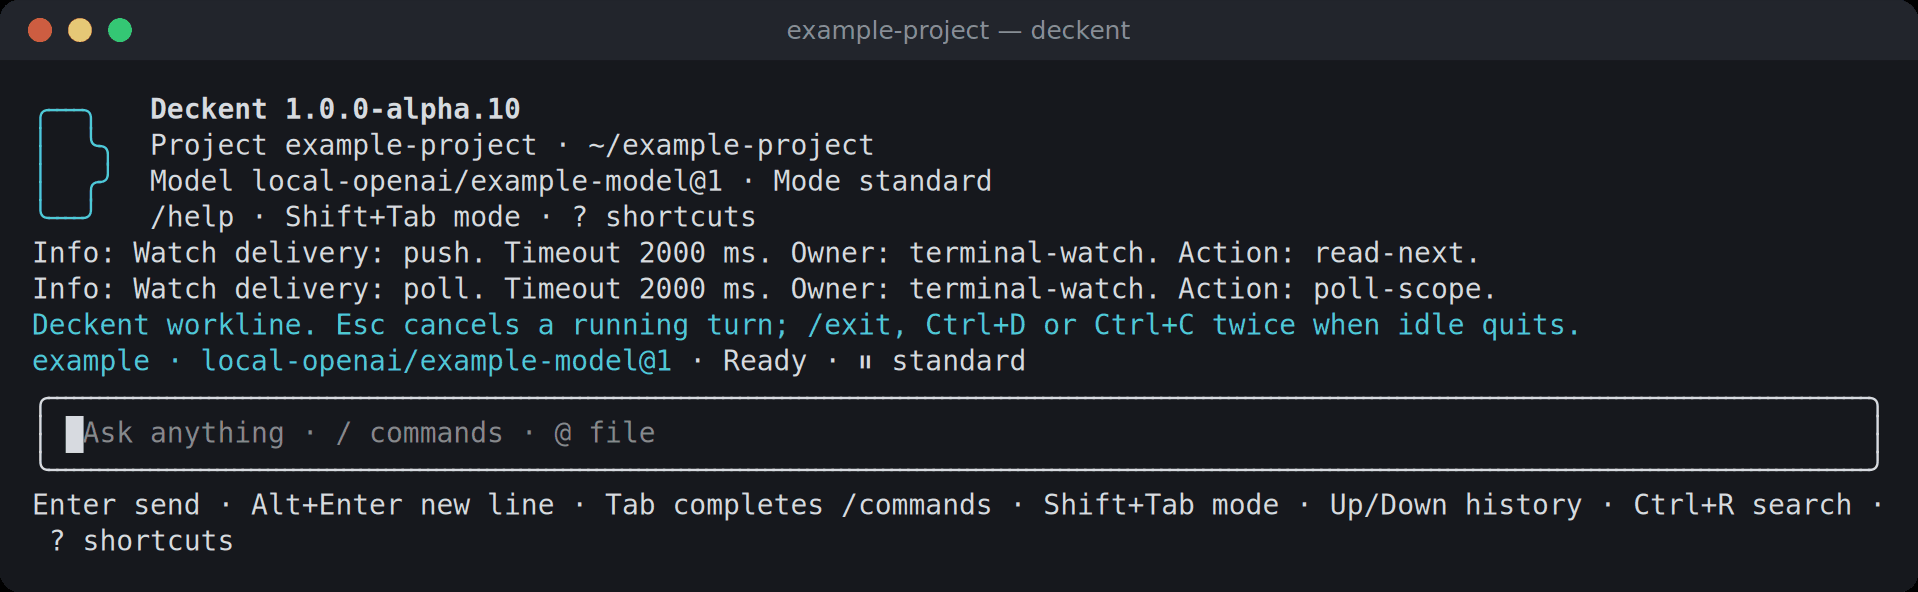
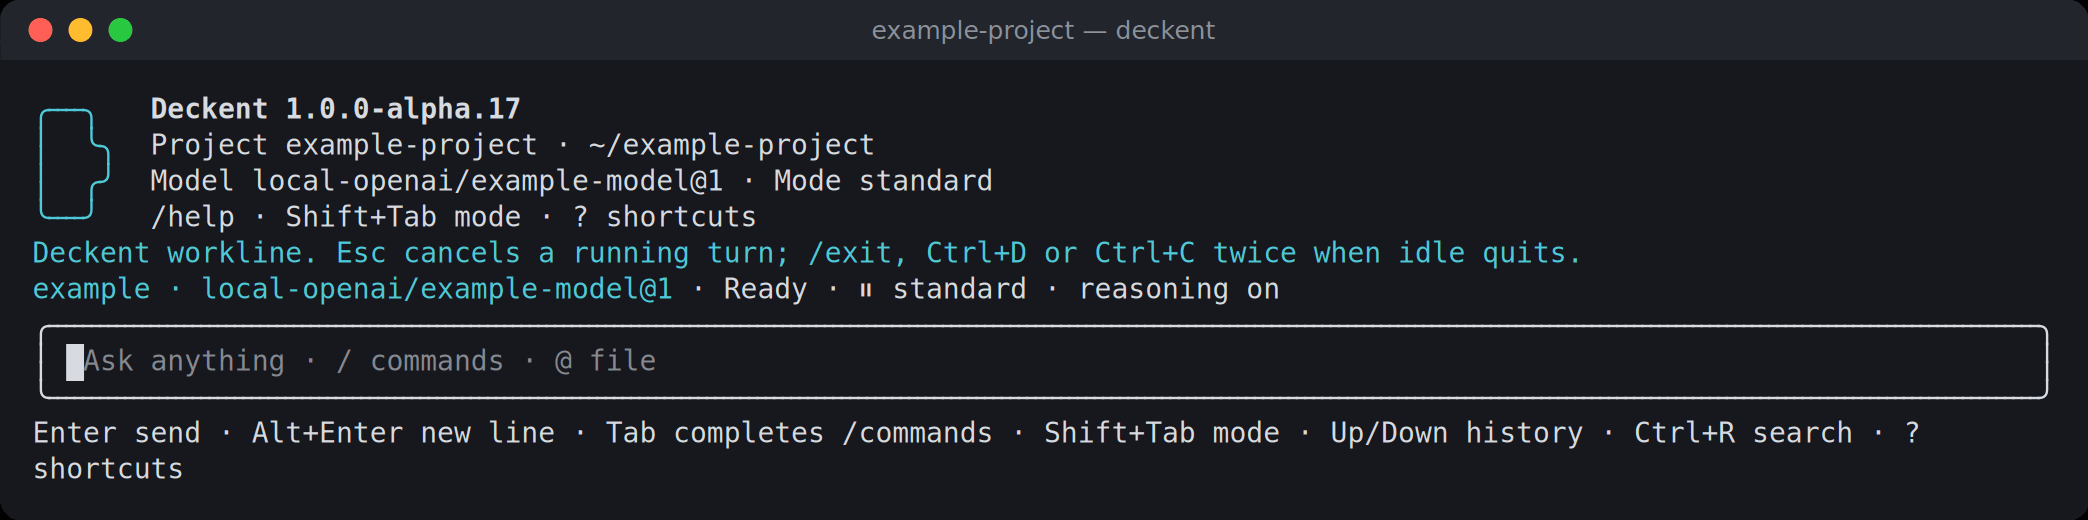
docs(readme): alpha.17 terminal screenshots (EN/TR, 120x36) and a first-session workflow
Re-captured 01-07 and added 08-16 from the real alpha.17 terminal in a throwaway installation
(compiled CLI in a PTY, own runtime service, loopback test model; no provider call, no real key):
/provider, the budget window (presets and arrow stepper), /model before and after a budget,
/usage, /config value selection, framed system lines and /tasks. README and README.tr.md gain
"Your first session" (init policy -> /provider -> budget -> /model -> approvals -> /usage) with a
Mermaid flow, slash-window and settings-by-selection notes, a Spending section, and the key store
table now says fresh installs start on the encrypted store. Operator reference: the budget window
opens from the first row of /provider.

Changed region(s): [[0.0, 0.1538, 0.9844, 0.9538], [0.3999, 0.0308, 0.5845, 0.0923], [0.0, 0.0308, 0.0923, 0.0923]]

diff --git a/README.tr.md b/README.tr.md
@@ -13,7 +13,7 @@
 [![Node engines](https://img.shields.io/badge/dynamic/json?url=https%3A%2F%2Fraw.githubusercontent.com%2FVerhex%2Fdeckent-next%2Fmain%2Fpackage.json&query=%24.engines.node&label=Node&color=43853d)](package.json)
 [![Pre-release](https://img.shields.io/badge/dynamic/json?url=https%3A%2F%2Fraw.githubusercontent.com%2FVerhex%2Fdeckent-next%2Fmain%2Fpackage.json&query=%24.version&label=pre-release&color=orange)](CHANGELOG.md)
 
-[English](README.md) · [Deckent nedir](#deckent-nedir) · [Bir istek nasıl akar](#bir-istek-nasıl-akar) · [Terminalde](#terminalde) · [Güvenlik](#güvenlik-modeli) · [Başlarken](#başlarken)
+[English](README.md) · [Deckent nedir](#deckent-nedir) · [Bir istek nasıl akar](#bir-istek-nasıl-akar) · [İlk oturum](#adım-adım-ilk-oturum) · [Terminalde](#terminalde) · [Güvenlik](#güvenlik-modeli) · [Başlarken](#başlarken)
 
 <img src=".github/assets/screenshots/tr/01-acilis.png" alt="Açılıştaki Deckent terminali: logo, sürüm, proje, model ve mod" width="880">
 
@@ -81,23 +81,94 @@ sequenceDiagram
   T-->>Siz: sonuç, her adım görünür
 ```
 
-## Terminalde
+## Adım adım ilk oturum
 
-Bu ekranlar gerçek Deckent terminalinden (alpha.10, 110×32; sonradan eklenen `/provider`, `/model` ve slash komut pencereleri henüz görselde yok), yerel bir deneme modeliyle geçici bir örnek projede
-çekildi.
+Boş bir projeden yönetilen bir ajan turuna ve onun maliyetine kadar, Deckent'ten çıkmadan:
+
+```mermaid
+flowchart LR
+  I["1 · Kurulum<br/><sub>deckent init policy</sub>"] --> O["2 · Açın<br/><sub>deckent</sub>"]
+  O --> P["3 · Sağlayıcı bağlayın<br/><sub>/provider · anahtar · ücretsiz deneme</sub>"]
+  P --> B["4 · Bütçe belirleyin<br/><sub>Bütçe oluştur · USD</sub>"]
+  B --> M["5 · Model seçin<br/><sub>/model · oturum ya da varsayılan</sub>"]
+  M --> W["6 · Çalışın<br/><sub>onaylar · modlar</sub>"]
+  W --> U["7 · Kullanıma bakın<br/><sub>/usage · harcama hesabı</sub>"]
+```
+
+1. **Kurulum**, proje başına bir kez: `deckent init policy --scope <id> --preview` ilk kurulum policy'sini gösterir,
+   `deckent init policy --scope <id> --apply` onu kurar. Bu policy o kapsamda model bağlamanıza ve çağırmanıza,
+   anahtar saklamanıza ve bütçe belirlemenize izin verir; bu eylemlerin her biri yine kontrol edilir ve kaydedilir.
+   Linux, WSL ve macOS'ta yeni bir kurulum şifreli anahtar deposuyla başlar.
+2. **Terminali açın**: `deckent`.
+3. **Sağlayıcı bağlayın**: `/provider` ile Anthropic API, OpenAI API, DeepSeek API, Z.ai GLM, herhangi bir OpenAI uyumlu
+   adres ya da vLLM gibi yerel bir sunucu. Anahtarı gizlenen bir alana yazarsınız; Deckent onu ücretsiz bir istekle
+   dener ve gizli depoya adıyla saklar; denemenin reddettiği anahtar asla saklanmaz. Ücretsiz denemesi olmayan bir
+   sağlayıcıda anahtar doğrulanmadan saklanır ve olası reddi ilk tur gösterir. Değer bir daha gösterilmez ve hiçbir
+   ajan ya da işçi onu almaz. Ardından o sağlayıcının kataloğundan **Model bağla**'yı seçin. Yayımlanmış fiyatı
+   doğrulanmamış bir model listede görünür ama nedeniyle kilitlidir (Zhipu GLM Çin, fiyatları CNY olduğu için kilitli
+   kalır). OpenRouter şimdilik yalnız anahtar saklar. Aynısı komut satırından: `deckent secret set <AD>` ve
+   `deckent models connect --scope <id> --connection <tür> --command-id <id> --model <birebir kimlik>`.
+4. **Bütçe belirleyin.** Her model turu, kapsamın tek ve ortak USD bütçesinden pay ayırır; bütçe yoksa her tur
+   reddedilir ve pencereler bunu söyler. `/provider`'ın ilk satırı **Bütçe oluştur** bütçe penceresini açar: 5, 10, 25,
+   50 ya da 100 USD veya ok tuşlarıyla 1 ile 1000 arasında başka bir tam dolar tutarı, ardından bir onay adımı. Sonra
+   aynı satır **Bütçeyi değiştir** olur. Komut satırından: `deckent models create-budget --scope <id> --usd <n>` ve
+   `deckent models revise-budget --scope <id> --usd <n>`.
+5. **Model seçin**: `/model` katalogdaki modelleri listeler; henüz kullanamayacağınız bir model nedeniyle (bütçe yok,
+   bağlı değil, anahtar eksik, etkin değil) ve onu neyin düzelteceğiyle kilitlidir. **Yalnız bu oturum** ya da **Bu
+   oturum ve varsayılanım olsun** (sizin `terminal.defaultModel` ayarınız) seçin. Proje kendi modelini belirtiyorsa
+   pencere kullanılan modeli hangi ayarın seçtiğini söyler.
+6. **Çalışın.** İsteğinizi düz cümleyle söyleyin. Araç çağrıları şirket policy'nize ve izin modunuza uyar; size
+   danışılması gereken her şey onay penceresini açar (bkz. [Güvenlik modeli](#güvenlik-modeli)).
+7. **Kullanıma bakın**: `/usage` bu konuşmanın ölçtüğü token'ları (sağlayıcı bildirmediyse akıl yürütme *ölçülmedi*
+   görünür) ve kapsamın bütçelerini gösterir; harcama hesabını okumak için bir bütçe açın: üst sınır, ayrılan ve
+   kesinleşen.
 
 <table>
   <tr>
-    <td width="50%"><img src=".github/assets/screenshots/tr/02-sohbet.png" alt="Sohbet turu: sizin satırınız Sen, yanıt Deckent başlığı altında"><br><sub><b>Sohbet.</b> Sizin satırlarınız ve Deckent'in yanıtları belirgin biçimde ayrışır.</sub></td>
+    <td width="50%"><img src=".github/assets/screenshots/tr/09-model.png" alt="Bütçe yokken /model: iki model de nedeniyle kilitli"><br><sub><b>Bütçeden önce.</b> <code>/model</code> her modeli kilitler; nedeni ve sonraki adımı söyler.</sub></td>
+    <td width="50%"><img src=".github/assets/screenshots/tr/08b-saglayici-butce-satiri.png" alt="İlk satırı Bütçe oluştur olan /provider ve sağlayıcı listesi"><br><sub><b>/provider.</b> Önce <b>Bütçe oluştur</b>, sonra her sağlayıcı bağlantı durumuyla.</sub></td>
+  </tr>
+  <tr>
+    <td width="50%"><img src=".github/assets/screenshots/tr/10-butce.png" alt="Hazır tutarlarla bütçe penceresi"><br><sub><b>Bütçe penceresi.</b> Hazır tutarlar ya da ok tuşlarıyla başka bir tutar.</sub></td>
+    <td width="50%"><img src=".github/assets/screenshots/tr/11-butce-adim.png" alt="20 USD'ye ayarlanmış bütçe adımlayıcısı"><br><sub><b>Başka tutar.</b> Tam dolar, 1 ile 1000 arası; hiçbir şey yazılmaz, onaylamadan hiçbir şey gönderilmez.</sub></td>
+  </tr>
+  <tr>
+    <td width="50%"><img src=".github/assets/screenshots/tr/12-model-hazir.png" alt="Bütçeden sonra /model: bir model hazır, diğeri bağlı değil diye kilitli"><br><sub><b>Bütçeden sonra.</b> Bağlı model hazır; diğeri bağlanana kadar kilitli kalır. Üstteki çerçeveli satır bütçeyi kaydeder.</sub></td>
+    <td width="50%"><img src=".github/assets/screenshots/tr/13-kullanim.png" alt="Bir sohbet turundan sonra /usage penceresi"><br><sub><b>/usage.</b> Bu konuşmanın ölçtüğü token'lar ve kapsamın bütçeleri. Fatura değil, ölçümdür.</sub></td>
+  </tr>
+</table>
+
+## Terminalde
+
+Bu ekranlar gerçek Deckent terminalinden (alpha.17, 120×36), geçici bir örnek projede çekildi. Model, aynı makinedeki
+küçük bir deneme sunucusudur: hiçbir sağlayıcı çağrılmadı ve gerçek bir anahtar kullanılmadı.
+
+Her slash komutu kendi penceresinde yanıt verir. <kbd>Esc</kbd> pencereyi kapatır ve konuşmada metin yığını yerine
+tek bir çerçeveli `Deckent sistemi` satırı bırakır. Ayarlar yazarak değil seçerek değişir: `/config` bölümden anahtara,
+oradan izin verilen değerlere ilerler; sayılar sınırlı bir ok tuşu adımlayıcısıyla değişir ve yalnız birkaç alan
+(izinli bir fetch adresi ya da bir kayıt defteri adresi gibi) yazılan metin alır, o da önce kontrol edilir. Her
+değişiklik policy'den geçer ve bir onaya dönüşebilir.
+
+<table>
+  <tr>
+    <td width="50%"><img src=".github/assets/screenshots/tr/02-sohbet.png" alt="Sohbet turu: sizin satırınız Sen, yanıt Deckent başlığı altında"><br><sub><b>Sohbet.</b> Sizin satırlarınız ve Deckent'in yanıtları belirgin biçimde ayrışır; her turda süre ve token.</sub></td>
     <td width="50%"><img src=".github/assets/screenshots/tr/05-onay.png" alt="Kabuk komutu için onay penceresi"><br><sub><b>Onay penceresi.</b> Ne, nerede (sandbox), kimin adına, kapsam, neden, risk, geri alınabilirlik ve canlı süre. <code>y</code> bu sefer · <code>n</code> reddet · <kbd>Tab</kbd> not.</sub></td>
   </tr>
   <tr>
-    <td width="50%"><img src=".github/assets/screenshots/tr/04-durum.png" alt="/status çıktısı"><br><sub><b>/status.</b> Önce insan dilinde özet; kimlikler, süreç ve build ayrıntıda.</sub></td>
+    <td width="50%"><img src=".github/assets/screenshots/tr/04-durum.png" alt="/status penceresi"><br><sub><b>/status.</b> Önce insan dilinde özet; kimlikler, süreç ve build ayrıntıda.</sub></td>
     <td width="50%"><img src=".github/assets/screenshots/tr/06-tam-erisim.png" alt="Tam erişim modu göstergesi"><br><sub><b>Modlar.</b> <kbd>Shift</kbd>+<kbd>Tab</kbd> yetkili olduğunuz modlar arasında döner; tam erişim açıkça işaretlenir.</sub></td>
   </tr>
   <tr>
-    <td width="50%"><img src=".github/assets/screenshots/tr/03-yardim.png" alt="Amaca göre gruplu /help"><br><sub><b>/help.</b> Komutlar amaca göre gruplu, her biri tek satır.</sub></td>
-    <td width="50%"><img src=".github/assets/screenshots/tr/07-mcp.png" alt="/mcp sunucu listesi"><br><sub><b>/mcp.</b> Yapılandırılmış MCP sunucuları, güven ve sağlık durumları.</sub></td>
+    <td width="50%"><img src=".github/assets/screenshots/tr/03-yardim.png" alt="Amaca göre gruplu /help penceresi"><br><sub><b>/help.</b> Komutlar amaca göre gruplu, her biri tek satır.</sub></td>
+    <td width="50%"><img src=".github/assets/screenshots/tr/07-mcp.png" alt="/mcp penceresi"><br><sub><b>/mcp.</b> Adım adım sunucu ekleme; yapılandırılmış sunucular güven durumlarıyla.</sub></td>
+  </tr>
+  <tr>
+    <td width="50%"><img src=".github/assets/screenshots/tr/08-saglayici.png" alt="Sağlayıcı türlerini listeleyen /provider penceresi"><br><sub><b>/provider.</b> Her sağlayıcının durumu; OpenRouter satırı şimdilik yalnız anahtar tuttuğunu söyler.</sub></td>
+    <td width="50%"><img src=".github/assets/screenshots/tr/14-ayarlar.png" alt="Terminal temasını seçen /config penceresi"><br><sub><b>/config.</b> Bölüm, anahtar, sonra izin verilen değerlerden biri; geçerli olan işaretli.</sub></td>
+  </tr>
+  <tr>
+    <td width="50%"><img src=".github/assets/screenshots/tr/15-sistem-satiri.png" alt="Kapanan pencerelerin bıraktığı çerçeveli sistem satırları"><br><sub><b>Sistem satırları.</b> Kapanan her pencere tek bir çerçeveli özet satırı bırakır.</sub></td>
+    <td width="50%"><img src=".github/assets/screenshots/tr/16-gorevler.png" alt="Henüz iş olmayan canlı /tasks penceresi"><br><sub><b>/tasks.</b> İşçiler ve işler tek bir canlı, salt okunur pencerede (burada boş: henüz arka plan işi yok).</sub></td>
   </tr>
 </table>
 
@@ -130,15 +201,15 @@ makinede sandbox kullanılamıyorsa `prefer-sandbox` ortamı host'ta çalışır
 
 ### API anahtarları
 
-Sağlayıcı anahtarını bir kez `deckent secret set AD` ile kaydedersiniz (gizli istem ya da stdin; asla komut argümanı değil);
-model profili ona adıyla başvurur. Anahtarı `ANTHROPIC_API_KEY`, shell profili ya da `.env` dosyasına koymayın: başka araçlar
-oraları okur.
+Sağlayıcı anahtarını bir kez, `/provider`'ın gizlenen alanına ya da `deckent secret set AD` ile kaydedersiniz (gizli
+istem ya da stdin; asla komut argümanı değil); model profili ona adıyla başvurur. Anahtarı `ANTHROPIC_API_KEY`, shell
+profili ya da `.env` dosyasına koymayın: başka araçlar oraları okur.
 
 | Depo (`secrets.store`) | Diskte | Anahtarı kim okuyabilir |
 |---|---|---|
-| `core.secret-store.env@1` (varsayılan) | hiçbir şey; ortam değişkeninden okunur | o ortamı devralan her program |
+| `core.secret-store.env@1` (hiçbir depo seçilmemişse) | hiçbir şey; ortam değişkeninden okunur | o ortamı devralan her program |
 | `core.secret-store.file@1` | düz metin, 0600 dosya | Deckent ve sizin hesabınızla çalışan diğer programlar |
-| `core.secret-store.encrypted-file@1` (önerilen) | şifreli (AES-256-GCM); açma anahtarı aynı klasörde, parola yok | Deckent; sizin hesabınızla çalışan diğer programlar yine açabilir |
+| `core.secret-store.encrypted-file@1` (önerilen; yeni kurulumlar bununla başlar) | şifreli (AES-256-GCM); açma anahtarı aynı klasörde, parola yok | Deckent; sizin hesabınızla çalışan diğer programlar yine açabilir |
 
 Ajanlar ve worker'lar anahtarı hiç almaz: sandbox depoyu gizler, anahtarı geri yansıtan sağlayıcı yanıtı reddedilir.
 `deckent doctor` hangi deponun etkin olduğunu ve kimin okuyabileceğini gösterir. Sağlayıcı anahtarı reddederse (401/403) ya da
@@ -154,6 +225,17 @@ bir limit dolarsa terminal bunu açık sözlerle söyler; harcama limitleri sağ
 3. Planlanan: Deckent servisini ayrı bir işletim sistemi kullanıcısında (ya da macOS Keychain ile) çalıştırmak; böylece hesabınızdaki hiçbir program anahtarları okuyamaz.
 
 Dosya depoları native Windows'ta henüz yok.
+
+### Harcama
+
+Her kapsamın, tüm API sağlayıcıları için ortak tek bir USD bütçesi vardır. Ücretli bir çağrıdan önce Deckent, geçerli
+olabilecek en pahalı fiyat kademesinde çağrının tutabileceği en yüksek tutarı ayırır; sonra çağrıyı sağlayıcının kendi
+son yanıtında bildirdiği kullanım ile doğrulanmış yayımlanmış fiyatın çarpımından kesinleştirir. Kesinleşen tutar
+Deckent'in kendi hesabıdır, sağlayıcının faturası değildir. Fiyatı doğrulanmamış uzak bir model reddedilir ve nedeniyle
+kilitli görünür. Sağlayıcı hangi fiyat kademesini kullandığını söylemiyorsa (DeepSeek) çağrı yayımlanmış en yüksek
+fiyattan kesinleşir ve üst sınır olarak işaretlenir. Son kullanımını hiç almamış bir çağrı, `deckent models
+reconcile-spending` ile çözene kadar ayrılmış kalır. Kesinleşen bir tutar ayrılandan fazla çıkarsa kapsam yeni
+çağrıları kabul etmez; dondurmayı `deckent models revise-budget --scope <id> --usd <n> --unfreeze` ile kaldırırsınız.
 
 ## Mimari
 
@@ -190,9 +272,10 @@ flowchart LR
 - **Yönetişim**: yerel kimlik, şirket kapsamlı policy, denetim ve her yüzey için tek onay aracısı; doğrulanmamış
   kanıt için insan kabulü ya da reddi.
 - **Model seçin**: istemci ve faturalama kanalına göre model kataloğu, birebir etkinleştirme, yerel vLLM sohbeti;
-  `/provider` ve `/model` kendi anahtarınızla sağlayıcı bağlar ve oturum için modeli sabitler; ücretli çağrılar,
-  sağlayıcının kullanım verisi ile doğrulanmış yayımlanmış tarifenin çarpımından, belirlediğiniz bütçe altında
-  kesinleşir (fiyatı bilinmeyen uzak model reddedilir ve nedeniyle kilitlenir); harcama ve ayırma denetimi.
+  `/provider` ve `/model` kendi anahtarınızla sağlayıcı bağlar, modeli oturum için sabitler ya da varsayılanınız yapar;
+  ücretli çağrılar, sağlayıcının kullanım verisi ile doğrulanmış yayımlanmış tarifenin çarpımından, bütçe penceresinde
+  ya da `deckent models create-budget` ile belirlediğiniz bütçe altında kesinleşir (fiyatı bilinmeyen uzak model
+  reddedilir ve nedeniyle kilitlenir); harcama ve ayırma denetimi.
 - **İşletin**: tüm kurulumlar için salt okunur `deckent monitor`, sağlık için `deckent doctor`, ayarlar için
   `deckent config`, her yerde iki dilli yardım.
 
@@ -224,6 +307,7 @@ Bundan sonra her şey `deckent` ile yapılır:
 deckent --version
 deckent                                   # etkileşimli terminali aç
 deckent doctor                            # kurulum sağlığı
+deckent init policy --scope <id> --apply  # bir proje için ilk kurulum policy'si (bkz. Adım adım ilk oturum)
 deckent init preview --profile <dosya>    # bir proje için kurulumu önizle
 deckent mcp add context7 -- npx -y @upstash/context7-mcp   # MCP sunucusu ekle
 deckent monitor                           # kurulumları ve işleri izle

diff --git a/README.md b/README.md
@@ -13,7 +13,7 @@ Every action by people, AI agents and tools is authorized, isolated, executed an
 [![Node engines](https://img.shields.io/badge/dynamic/json?url=https%3A%2F%2Fraw.githubusercontent.com%2FVerhex%2Fdeckent-next%2Fmain%2Fpackage.json&query=%24.engines.node&label=Node&color=43853d)](package.json)
 [![Pre-release](https://img.shields.io/badge/dynamic/json?url=https%3A%2F%2Fraw.githubusercontent.com%2FVerhex%2Fdeckent-next%2Fmain%2Fpackage.json&query=%24.version&label=pre-release&color=orange)](CHANGELOG.md)
 
-[Türkçe](README.tr.md) · [What it is](#what-is-deckent) · [How a request flows](#how-a-request-flows) · [In the terminal](#in-the-terminal) · [Safety](#safety-model) · [Get started](#get-started)
+[Türkçe](README.tr.md) · [What it is](#what-is-deckent) · [How a request flows](#how-a-request-flows) · [First session](#your-first-session) · [In the terminal](#in-the-terminal) · [Safety](#safety-model) · [Get started](#get-started)
 
 <img src=".github/assets/screenshots/en/01-startup.png" alt="Deckent terminal right after start: logo, version, project, model and mode" width="880">
 
@@ -82,23 +82,94 @@ sequenceDiagram
   T-->>You: result, with every step visible
 ```
 
-## In the terminal
+## Your first session
 
-These screens come from the real Deckent terminal (alpha.10, 110×32; the `/provider`, `/model` and slash-command windows added since are not pictured yet), recorded in a throwaway sample project with a
-local test model.
+From an empty project to a governed agent turn and what it cost, without leaving Deckent:
+
+```mermaid
+flowchart LR
+  I["1 · Set up<br/><sub>deckent init policy</sub>"] --> O["2 · Open<br/><sub>deckent</sub>"]
+  O --> P["3 · Connect a provider<br/><sub>/provider · key · free check</sub>"]
+  P --> B["4 · Set a budget<br/><sub>Create budget · USD</sub>"]
+  B --> M["5 · Choose a model<br/><sub>/model · session or default</sub>"]
+  M --> W["6 · Work<br/><sub>approvals · modes</sub>"]
+  W --> U["7 · Check usage<br/><sub>/usage · spend account</sub>"]
+```
+
+1. **Set up** once per project: `deckent init policy --scope <id> --preview` shows the first-run policy and
+   `deckent init policy --scope <id> --apply` installs it. It lets you connect and call models, keep keys and set
+   budgets in that scope; every one of those actions is still checked and recorded. On Linux, WSL and macOS a fresh
+   installation starts on the encrypted key store.
+2. **Open the terminal** with `deckent`.
+3. **Connect a provider** with `/provider`: Anthropic API, OpenAI API, DeepSeek API, Z.ai GLM, any OpenAI-compatible
+   address or a local server such as vLLM. You type the key into a masked field; Deckent checks it with a free request
+   and stores it in the secret store under its name; a key the check rejects is never stored. Where a provider has no
+   free check, the key is kept unverified and the first turn shows any rejection. The value is never shown again and
+   no agent or worker ever receives it. Then choose **Connect a model** from that provider's catalog. A model
+   without a verified published price is listed but locked, with the reason (Zhipu GLM China stays locked because its
+   prices are in CNY). OpenRouter stores a key only for now. The same from the command line: `deckent secret set <NAME>`
+   and `deckent models connect --scope <id> --connection <kind> --command-id <id> --model <exact id>`.
+4. **Set a budget.** Every model turn reserves against one shared USD budget of the scope; without one, every turn is
+   refused and the windows say so. The first row of `/provider`, **Create budget**, opens the budget window: 5, 10, 25,
+   50 or 100 USD, or another whole-dollar amount from 1 to 1000 with the arrow keys, then a confirm step. Later the
+   same row reads **Change budget**. From the command line: `deckent models create-budget --scope <id> --usd <n>` and
+   `deckent models revise-budget --scope <id> --usd <n>`.
+5. **Choose a model** with `/model`. It lists the catalog's models; one you cannot use yet is locked with the reason
+   (no budget, not connected, key missing, not activated) and what fixes it. Pick **This session only** or **This
+   session, and make it my default** (your `terminal.defaultModel`). When the project names its own model, the window
+   says which setting chose the model in use.
+6. **Work.** Ask in plain words. Tool calls follow your company policy and your permission mode; anything that needs
+   you opens the approval window (see [Safety model](#safety-model)).
+7. **Check usage** with `/usage`: the tokens this conversation measured (reasoning shows *not measured* when the
+   provider did not report it) and the scope's budgets; open a budget to read its spend account: limit, reserved and
+   settled.
 
 <table>
   <tr>
-    <td width="50%"><img src=".github/assets/screenshots/en/02-chat.png" alt="A chat turn: your line marked You, the answer under Deckent"><br><sub><b>Chat.</b> Your lines and Deckent's answers are visibly distinct.</sub></td>
+    <td width="50%"><img src=".github/assets/screenshots/en/09-model.png" alt="/model with no budget: both models locked with the reason"><br><sub><b>Before a budget.</b> <code>/model</code> locks every model and names the reason and the next step.</sub></td>
+    <td width="50%"><img src=".github/assets/screenshots/en/08b-provider-budget-row.png" alt="/provider with Create budget as its first row and the provider list"><br><sub><b>/provider.</b> <b>Create budget</b> first, then each provider with its connection state.</sub></td>
+  </tr>
+  <tr>
+    <td width="50%"><img src=".github/assets/screenshots/en/10-budget.png" alt="Budget window with preset amounts"><br><sub><b>Budget window.</b> Preset amounts, or another amount with the arrow keys.</sub></td>
+    <td width="50%"><img src=".github/assets/screenshots/en/11-budget-stepper.png" alt="Budget stepper set to 20 USD"><br><sub><b>Another amount.</b> Whole dollars, 1 to 1000; nothing is typed and nothing is sent before you confirm.</sub></td>
+  </tr>
+  <tr>
+    <td width="50%"><img src=".github/assets/screenshots/en/12-model-ready.png" alt="/model after the budget: one model ready, one locked as not connected"><br><sub><b>After the budget.</b> The connected model is ready; the other stays locked until it is connected. The framed line above records the budget.</sub></td>
+    <td width="50%"><img src=".github/assets/screenshots/en/13-usage.png" alt="/usage window after one chat turn"><br><sub><b>/usage.</b> Tokens this conversation measured and the scope's budgets. A measurement, not an invoice.</sub></td>
+  </tr>
+</table>
+
+## In the terminal
+
+These screens come from the real Deckent terminal (alpha.17, 120×36), recorded in a throwaway sample project. The
+model is a small test server on the same machine: no provider was called and no real key was used.
+
+Every slash command answers in its own window. <kbd>Esc</kbd> closes it and leaves one framed `Deckent system` line in
+the conversation instead of a wall of text. Settings are changed by choosing, not by typing: `/config` walks from
+section to key to the allowed values, numbers move with a bounded arrow-key stepper, and only a few fields (such as an
+allowed fetch host or a registry address) take typed text, which is checked first. Each change goes through policy and
+may become an approval.
+
+<table>
+  <tr>
+    <td width="50%"><img src=".github/assets/screenshots/en/02-chat.png" alt="A chat turn: your line marked You, the answer under Deckent"><br><sub><b>Chat.</b> Your lines and Deckent's answers are visibly distinct, with time and tokens per turn.</sub></td>
     <td width="50%"><img src=".github/assets/screenshots/en/05-approval.png" alt="Approval window for a shell command"><br><sub><b>Approval window.</b> What, where (sandbox), on whose behalf, scope, why, risk, reversibility and a live deadline. <code>y</code> once · <code>n</code> decline · <kbd>Tab</kbd> note.</sub></td>
   </tr>
   <tr>
-    <td width="50%"><img src=".github/assets/screenshots/en/04-status.png" alt="/status output"><br><sub><b>/status.</b> A human summary first; identities, process and build under the details.</sub></td>
+    <td width="50%"><img src=".github/assets/screenshots/en/04-status.png" alt="/status window"><br><sub><b>/status.</b> A human summary first; identities, process and build under the details.</sub></td>
     <td width="50%"><img src=".github/assets/screenshots/en/06-full-access.png" alt="Full access mode indicator"><br><sub><b>Modes.</b> <kbd>Shift</kbd>+<kbd>Tab</kbd> cycles the modes you are allowed; full access is clearly marked.</sub></td>
   </tr>
   <tr>
-    <td width="50%"><img src=".github/assets/screenshots/en/03-help.png" alt="/help grouped by purpose"><br><sub><b>/help.</b> Commands grouped by purpose, one line each.</sub></td>
-    <td width="50%"><img src=".github/assets/screenshots/en/07-mcp.png" alt="/mcp server list"><br><sub><b>/mcp.</b> Configured MCP servers, their trust and health.</sub></td>
+    <td width="50%"><img src=".github/assets/screenshots/en/03-help.png" alt="/help window grouped by purpose"><br><sub><b>/help.</b> Commands grouped by purpose, one line each.</sub></td>
+    <td width="50%"><img src=".github/assets/screenshots/en/07-mcp.png" alt="/mcp window"><br><sub><b>/mcp.</b> Add a server step by step; configured servers with their trust state.</sub></td>
+  </tr>
+  <tr>
+    <td width="50%"><img src=".github/assets/screenshots/en/08-provider.png" alt="/provider window listing provider kinds"><br><sub><b>/provider.</b> Each provider's state; the OpenRouter row says it holds a key only for now.</sub></td>
+    <td width="50%"><img src=".github/assets/screenshots/en/14-config.png" alt="/config window choosing the terminal theme"><br><sub><b>/config.</b> Section, key, then one of the allowed values; the current one is marked.</sub></td>
+  </tr>
+  <tr>
+    <td width="50%"><img src=".github/assets/screenshots/en/15-system-line.png" alt="Framed system lines left by closed windows"><br><sub><b>System lines.</b> Each closed window leaves one framed summary line.</sub></td>
+    <td width="50%"><img src=".github/assets/screenshots/en/16-tasks.png" alt="/tasks live window with no work yet"><br><sub><b>/tasks.</b> Workers and runs in one live, read-only window (empty here: no background work yet).</sub></td>
   </tr>
 </table>
 
@@ -131,14 +202,15 @@ on the host and says so on every approval card, while a `require-sandbox` realm 
 
 ### API keys
 
-You store a provider key once with `deckent secret set NAME` (hidden prompt or piped stdin, never an argument); a model profile
-refers to it by name. Never put it in `ANTHROPIC_API_KEY`, a shell profile or a `.env` file: other tools read those.
+You store a provider key once, in the masked field of `/provider` or with `deckent secret set NAME` (hidden prompt or
+piped stdin, never an argument); a model profile refers to it by name. Never put it in `ANTHROPIC_API_KEY`, a shell
+profile or a `.env` file: other tools read those.
 
 | Store (`secrets.store`) | On disk | Who can read the key |
 |---|---|---|
-| `core.secret-store.env@1` (default) | nothing; read from the environment | every program that inherits that environment |
+| `core.secret-store.env@1` (when no store is selected) | nothing; read from the environment | every program that inherits that environment |
 | `core.secret-store.file@1` | plain text, a 0600 file | Deckent and other programs running as your user |
-| `core.secret-store.encrypted-file@1` (recommended) | encrypted (AES-256-GCM); the unlock key sits in the same folder, no passphrase | Deckent; other programs running as your user can still open it |
+| `core.secret-store.encrypted-file@1` (recommended; fresh installs start here) | encrypted (AES-256-GCM); the unlock key sits in the same folder, no passphrase | Deckent; other programs running as your user can still open it |
 
 Agents and workers never receive a key: the sandbox hides the store and a provider answer that echoes the key is refused.
 `deckent doctor` shows which store is active and who can read it. When a provider refuses a key (401/403) or a limit is
@@ -154,6 +226,17 @@ reached, the terminal says so in plain words; spend limits stay in your provider
 3. Planned: run the Deckent service under its own OS user (or the macOS Keychain) so no program of your account can read the keys.
 
 The file stores are not available on native Windows yet.
+
+### Spending
+
+Each scope has one shared budget in USD for every API provider. Before a paid call, Deckent reserves the most it could
+cost at the dearest price tier that can apply; afterwards it settles the call from the usage the provider itself
+reported in its final answer, multiplied by the verified published price. That settled amount is Deckent's own
+calculation, not the provider's invoice. A remote model without a verified price is refused and shown locked with
+the reason. Where a provider does not say which price tier it used (DeepSeek), the call settles at the published peak
+price and is labelled an upper bound. A call that never received its final usage stays held until you resolve it with
+`deckent models reconcile-spending`. If a settled charge ever exceeds what was reserved, the scope stops admitting new
+calls until you lift the freeze with `deckent models revise-budget --scope <id> --usd <n> --unfreeze`.
 
 ## Architecture
 
@@ -190,9 +273,10 @@ flowchart LR
 - **Govern**: local identity, company-scoped policy, audit and one approval broker for every surface; human
   acceptance or rejection of unverified evidence.
 - **Choose models**: a model catalog by client and billing channel, exact activation, local vLLM chat; `/provider` and
-  `/model` connect a provider with your own key and pin a model for the session; paid calls settle from the provider's
-  usage times a verified published tariff under a budget you set (an unpriced remote model is refused and locked with
-  the reason); spending and allocation audit.
+  `/model` connect a provider with your own key and pin a model for the session or make it your default; paid calls
+  settle from the provider's usage times a verified published tariff under a budget you set in the budget window or
+  with `deckent models create-budget` (an unpriced remote model is refused and locked with the reason); spending and
+  allocation audit.
 - **Operate**: `deckent monitor` for a read-only view of every installation, `deckent doctor` for health, `deckent
   config` for settings, bilingual help everywhere.
 
@@ -224,6 +308,7 @@ From then on, everything is `deckent`:
 deckent --version
 deckent                                   # open the interactive terminal
 deckent doctor                            # installation health
+deckent init policy --scope <id> --apply  # first-run policy for a project (see Your first session)
 deckent init preview --profile <file>     # preview the installation for a project
 deckent mcp add context7 -- npx -y @upstash/context7-mcp   # add an MCP server
 deckent monitor                           # watch installations and work

diff --git a/.deckent/docs/architecture/operator-reference.tr.md b/.deckent/docs/architecture/operator-reference.tr.md
@@ -133,5 +133,5 @@ terminalin varsayılanıdır; `/model` oturum sabitlemesi önce gelir, sonra pro
 
 Harcama: ücretli çağrılar uygulanabilir en pahalı yayımlanmış kademeyi rezerve eder ve sağlayıcının döndürdüğü kullanım ile
 sabitlenmiş tarifenin çarpımından kesinleşir (`measured-tariff`). Kapsamın ilk bütçesi `deckent models create-budget
---scope <id> --usd <n>` (ya da `/model` bütçe penceresi) ile açılır, `revise-budget [--unfreeze]` ile değişir; son kullanımı
+--scope <id> --usd <n>` (ya da bütçe penceresi: `/provider`'ın ilk satırı) ile açılır, `revise-budget [--unfreeze]` ile değişir; son kullanımı
 hiç gelmemiş askıdaki çağrı `reconcile-spending` ile çözülür. Ayrıntı: ARCHITECTURE "Spend settlement".

diff --git a/.deckent/docs/architecture/operator-reference.md b/.deckent/docs/architecture/operator-reference.md
@@ -126,5 +126,5 @@ the terminal's default; the session pin from `/model` wins, then a project-autho
 
 Spending: paid calls reserve the dearest applicable published tier and settle from the provider's returned usage times
 the pinned tariff (`measured-tariff`). The scope's first budget is created with `deckent models create-budget --scope <id>
---usd <n>` (or the `/model` budget window), changed with `revise-budget [--unfreeze]`; a held call that never received
+--usd <n>` (or the budget window, the first row of `/provider`), changed with `revise-budget [--unfreeze]`; a held call that never received
 final usage is resolved with `reconcile-spending`. Details: ARCHITECTURE "Spend settlement".
